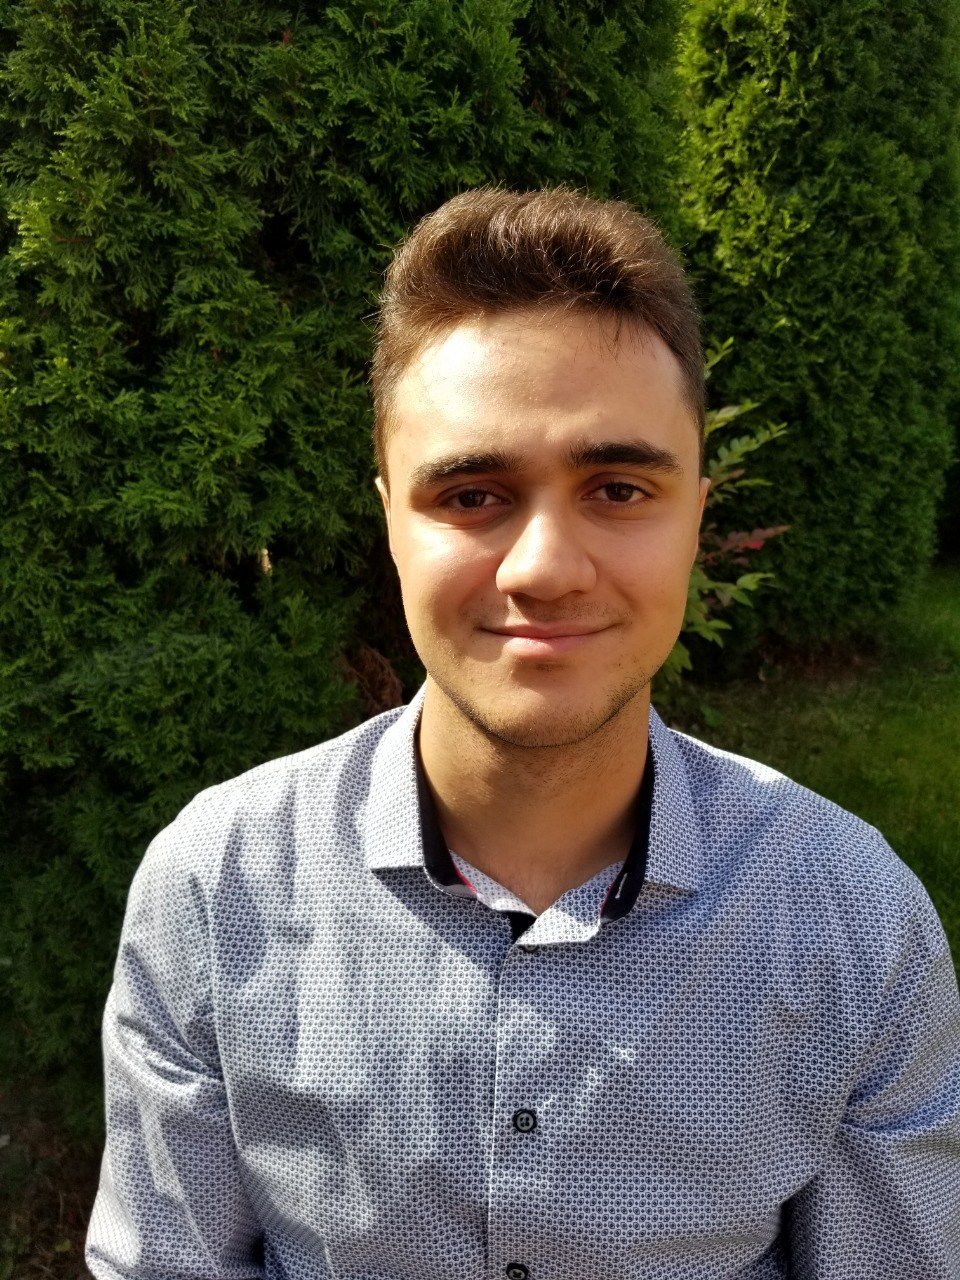
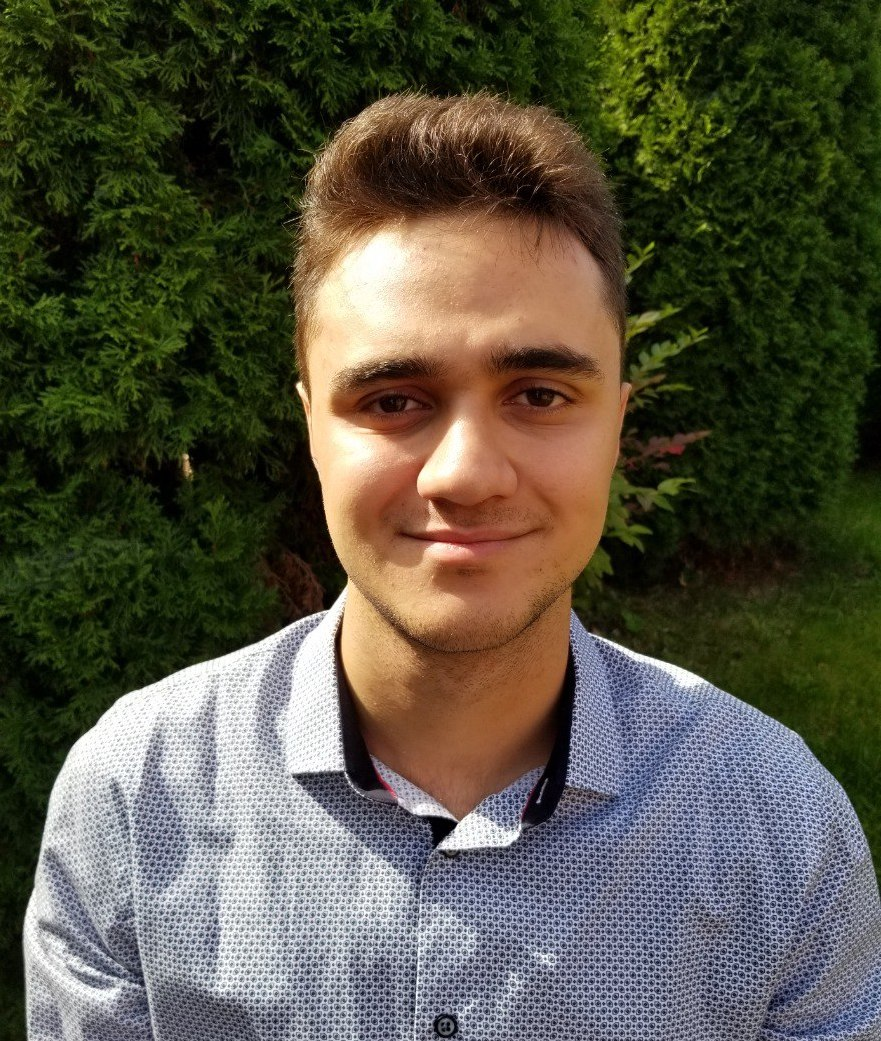
cropped picture, added media queries for the description to images and other sections for small changes

diff --git a/style.css b/style.css
@@ -117,17 +117,42 @@ html,body{
 .second-section-wrapper{
   display: flex;
   align-items: center;
-  justify-content: space-around;
+  justify-content: space-evenly;
+}
 
+@media(max-width: 1000px){
+  .second-section-wrapper{
+    flex-direction: column;
+    
+  }
+}
+
+.second-section-face-image{
+  width: 25%;
+  margin: 0% 0% 50px 5%;
+}
+
+@media(max-width: 1000px){
+  .second-section-face-image{
+    width: 43%;
+    margin: 0 0 25px 0;
+  }
+}
+
+.second-section-face-image img{
+  max-width: 100%;
 }
 
 .about-me-content{
   font-family: "karla";
-  display: flex;
-  max-width: 80%;
-  flex-direction: column; 
-  justify-content: center;
+  width: 50%;
   font-size: 20px;
+}
+
+@media(max-width: 1000px){
+  .about-me-content{
+    width: 70%;
+  }
 }
 
 .about-me-header{
@@ -151,8 +176,8 @@ html,body{
   color: rgba(232, 184, 45, 0.7);
   font-family: "karla";
   margin: 0 0 50px 0;
-  letter-spacing: 2px;
-  font-size: 1.6rem;
+  letter-spacing: 1px;
+  font-size: 1.4rem;
 }
 
 
@@ -206,7 +231,6 @@ html,body{
     max-width: 299px;
   }
 }
-
 
 .stack-container{
   width: 100px;
@@ -295,6 +319,7 @@ html,body{
 @media(max-width: 1008px){
   .project-picture{
     padding: 5% 5% 0 5%;
+    margin: 2% 0 0 0;
   }
 
   .project-description{

diff --git a/index.html b/index.html
@@ -45,7 +45,7 @@
     <section id="second-section">
       <h1 class="about-me-header">About Me</h1>
       <div class="second-section-wrapper">
-        <div>
+        <div class="second-section-face-image">
           <img src="./images/photo4925077842463664165.jpg" alt="headshot-photo">
         </div>
 
